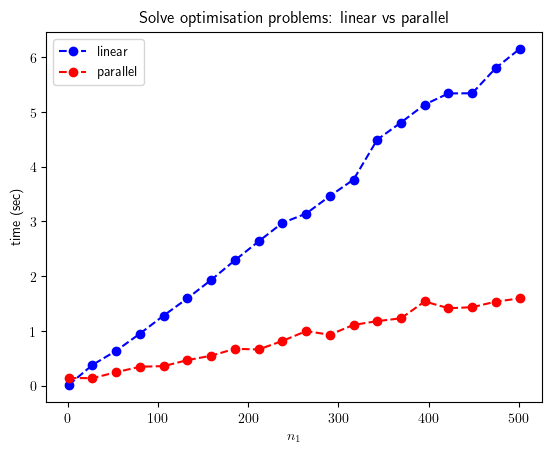
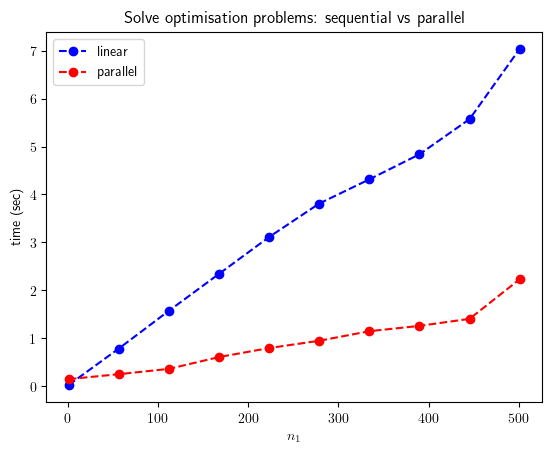
added 2 more parallel execution images

diff --git a/Thesis/python_scripts/execution_times_parallel.py b/Thesis/python_scripts/execution_times_parallel.py
@@ -206,9 +206,11 @@ bounds = [(-2.5, 2.5), (-2.5, 2.5)]
 # LINEAR
 seed = 21
 eps = 1
-n1 = np.linspace(1, 501, 20)
+n1 = np.linspace(1, 501, 10)
 solve_grad = []
 estimate_regions = []
+sample = []
+eval_post = []
 for i, n in enumerate(n1):
     romc = elfi.ROMC(summary, bounds, parallelize=False)
 
@@ -223,9 +225,21 @@ for i, n in enumerate(n1):
     toc = timeit.default_timer()
     estimate_regions.append(toc-tic)
 
+    tic = timeit.default_timer()
+    romc.sample(n2=50)
+    toc = timeit.default_timer()
+    sample.append(toc-tic)
+
+    tic = timeit.default_timer()
+    romc.eval_unnorm_posterior(np.zeros((50, 2)))
+    toc = timeit.default_timer()
+    eval_post.append(toc-tic)
+
 # PARALLEL
 estimate_regions_parallel = []
 solve_grad_parallel = []
+sample_parallel = []
+eval_post_parallel = []
 for i, n in enumerate(n1):
     time.sleep(2)
     romc1 = elfi.ROMC(summary, bounds, parallelize=True)
@@ -241,12 +255,22 @@ for i, n in enumerate(n1):
     toc = timeit.default_timer()
     estimate_regions_parallel.append(toc-tic)
 
+    tic = timeit.default_timer()
+    romc1.sample(n2=50)
+    toc = timeit.default_timer()
+    sample_parallel.append(toc-tic)
+
+    tic = timeit.default_timer()
+    romc1.eval_unnorm_posterior(np.zeros((50, 2)))
+    toc = timeit.default_timer()
+    eval_post_parallel.append(toc-tic)
+
 
 prepath = '/home/givasile/ORwDS/edinburgh-thesis/Thesis/tmp_images/chapter4'
 
 
 plt.figure()
-plt.title("Solve optimisation problems: linear vs parallel")
+plt.title("Solve optimisation problems: sequential vs parallel")
 plt.plot(n1, solve_grad, "bo--", label="linear")
 plt.plot(n1, solve_grad_parallel, "ro--", label="parallel")
 plt.xlabel(r"$n_1$")
@@ -258,12 +282,36 @@ plt.show(block=False)
 
 
 plt.figure()
-plt.title("Construct bounding boxes: linear vs parallel")
+plt.title("Construct bounding boxes: sequential vs parallel")
 plt.plot(n1, estimate_regions, "bo--", label="linear")
 plt.plot(n1, estimate_regions_parallel, "ro--", label="parallel")
 plt.xlabel(r"$n_1$")
 plt.ylabel("time (sec)")
 plt.legend()
 plt.savefig(os.path.join(prepath, "estimate_regions_parallel"),
+            bbox_inches="tight")
+plt.show(block=False)
+
+
+plt.figure()
+plt.title("Sampling: sequential vs parallel")
+plt.plot(n1, sample, "bo--", label="linear")
+plt.plot(n1, sample_parallel, "ro--", label="parallel")
+plt.xlabel(r"$n_1$")
+plt.ylabel("time (sec)")
+plt.legend()
+plt.savefig(os.path.join(prepath, "sample_parallel"),
+            bbox_inches="tight")
+plt.show(block=False)
+
+
+plt.figure()
+plt.title("Evaluate the approximate posterior: sequential vs parallel")
+plt.plot(n1, eval_post, "bo--", label="linear")
+plt.plot(n1, eval_post_parallel, "ro--", label="parallel")
+plt.xlabel(r"$n_1$")
+plt.ylabel("time (sec)")
+plt.legend()
+plt.savefig(os.path.join(prepath, "eval_post_parallel"),
             bbox_inches="tight")
 plt.show(block=False)
